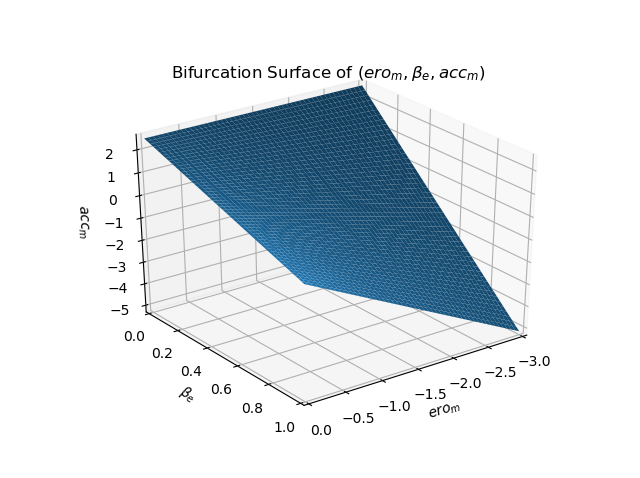
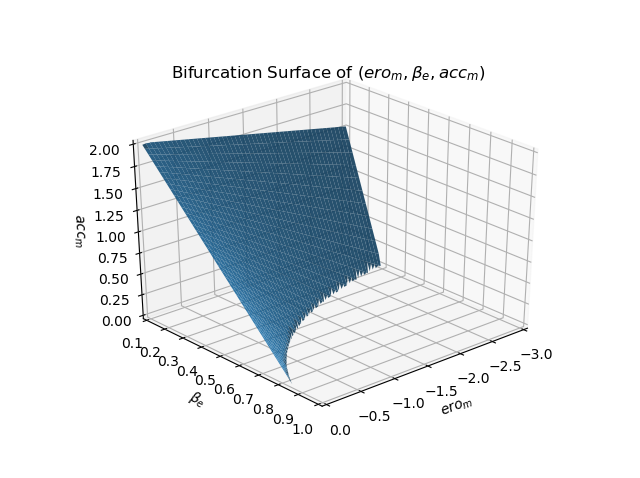
Modified default values

Changed region(s): [[0.0938, 0.1464, 0.8438, 0.9079], [0.8125, 0.7322, 0.875, 0.7615]]

diff --git a/mangrove-peat-salt/determinantSolver.py b/mangrove-peat-salt/determinantSolver.py
@@ -94,26 +94,35 @@ def chSymtoLabel(sym):
 # Tuple list (symbol,default value)
 symDefaults = [(sym,defaults[chSymtoLabel(sym)]) for sym in params]
 symDroughts = [(sym,drought[chSymtoLabel(sym)]) for sym in params]
-#########
+
+
+############
+#----------#
+############
+
 #Bifurcation surface parameters
 # Top correlation parameters to check
 # hydP, decrS, betaA, betaSB, concEvapt, evaptM
 # concS, betaE, betaV
-X = eroM
-Y = betaE
-Z = accM
+X = propPrecip
+Y = propS
+Z = stressS
 
+showDrought = False
+############
+#----------#
+############
 
 xMin = ranges[chSymtoLabel(X)][0]
 xMax = ranges[chSymtoLabel(X)][1]
 
-yMin = ranges[chSymtoLabel(Y)][0]+0.1
+yMin = ranges[chSymtoLabel(Y)][0]
 yMax = ranges[chSymtoLabel(Y)][1]
 
 zAxMin = ranges[chSymtoLabel(Z)][0]
 zAxMax = ranges[chSymtoLabel(Z)][1]
 
-
+truncate = True
 #########
 # Jacobian components
 mortD = betaD/(betaD+betaS)
@@ -237,33 +246,44 @@ ys = np.linspace(yMin,yMax,points)
 xx, yy = np.meshgrid(xs,ys)
 
 zz = saddleFun(xx,yy)
-#zz2 = saddleFun2(xx,yy)
+zz2 = saddleFun2(xx,yy)
 
 
 
 fig2=plt.figure()
 ax2 = fig2.add_subplot(111, projection='3d')
 
-for i in range(len(xx)):
-    for j in range(len(yy)):
-        if (zz[j,i] < zAxMin) or (zz[j,i] > zAxMax):
-            zz[j,i] = np.nan
+if truncate == True:
+    for i in range(len(xx)):
+        for j in range(len(yy)):
+            if (zz[j,i] < zAxMin) or (zz[j,i] > zAxMax): zz[j,i] = np.nan
+            if (zz2[j,i] < zAxMin) or (zz2[j,i] > zAxMax): zz2[j,i] = np.nan
             
-#for i in range(len(xx)):
-#    for j in range(len(yy)):
-#        if (zz2[j,i] < zAxMin) or (zz[j,i] > zAxMax):
-#            zz2[j,i] = np.nan
-            
-ax2.plot_surface(xx, yy, zz, label = 'Default healthy conditions', alpha=0.9, edgecolor='none')
-#ax2.plot_surface(xx, yy, zz2, label='Drought & Low Sea-level Conditions', alpha=0.7, edgecolor='none')
+
+        
+s1 = ax2.plot_surface(xx, yy, zz, label = 'Default', alpha=0.9, edgecolor='none')
+
+s1._facecolors2d=s1._facecolors3d
+s1._edgecolors2d=s1._edgecolors3d
+
+if showDrought == True:
+    s2 = ax2.plot_surface(xx, yy, zz2, label='Drought', alpha=0.7, edgecolor='none')
+    s2._facecolors2d=s2._facecolors3d
+    s2._edgecolors2d=s2._edgecolors3d
+    ax2.legend(loc = 'upper right')
+    
 ax2.set_xlabel(r'$'+latex(X)+'$')
 ax2.set_xlim(xMin,xMax)
 ax2.set_ylabel(r'$'+latex(Y)+'$')
 ax2.set_ylim(yMin,yMax)
 ax2.set_zlabel(r'$'+latex(Z)+'$')
 plt.title(r'Bifurcation Surface of $('+latex(X)+','+latex(Y)+','+latex(Z)+')$')
-ax2.set_zlim(zAxMin,zAxMax)
-#ax2.legend()
+
+if truncate == True:
+    ax2.set_zlim(zAxMin,zAxMax)
+    
+
+
 plt.show()
 
 
@@ -291,20 +311,24 @@ def checkStability(parX,parY,parZ):
 
 
 gradNorm = [-saddleFunc.diff(X),-saddleFunc.diff(Y),1]
-
+gradNorm = np.multiply(gradNorm, 1/10)
 x1 = random.uniform(xMin,xMax)
 y1 = random.uniform(yMin,yMax)
 
 gradNorm[0] = gradNorm[0].subs([(X,x1),(Y,y1)])
 gradNorm[1] = gradNorm[1].subs([(X,x1),(Y,y1)])
 
-revGradNorm = gradNorm
-revGradNorm[0] *= -1
-revGradNorm[1] *= -1
+revGradNorm = np.multiply(gradNorm, -1)
+
+
 p1 = (x1,y1,saddleFun(x1,y1))
 p2 = [a+b for a,b in zip(gradNorm,p1)]
-checkStability((X,p2[0]),(Y,p2[1]),(Z,p2[2]))
+p3 = [a+b for a,b in zip(revGradNorm,p1)]
 
+res1 = checkStability((X,p2[0]),(Y,p2[1]),(Z,p2[2]))
+print(res1 + " above" )
+res2 = checkStability((X,p3[0]),(Y,p2[1]),(Z,p3[2]))
+print(res2 + " below")
 
 #res = checkStability((X,xt+dx),(Y,yt+dy),(Z,zt+dx))
 #res2 = checkStability((X,xt+dx),(Y,yt+dy),(Z,zt-dx))

diff --git a/mangrove-peat-salt/droughtParams.py b/mangrove-peat-salt/droughtParams.py
@@ -7,18 +7,19 @@ Default values and ranges
 for generalised modelling parameters
 scenario: drought (less precipitation) and abnormally low sea levels
 """
-alphaM0 = 1/6.
-alphaP0 = 1/3.
-alphaS0 = 6.
+
+alphaM0 = 1/2
+alphaP0 = 1/4
+alphaS0 = 1
 
 alphas = {'alphaM':alphaM0, 'alphaP':alphaP0, 'alphaS':alphaS0}
 #Mangrove Gain
-betaG0 = 0.2
+betaG0 = 0.4
 betaP0 = 1-betaG0
 
 # Mangrove loss
-betaD0 = 0.01
-betaS0 = 0.9
+betaD0 = 0.0
+betaS0 = 0.8
 betaL0 = 1-betaD0 - betaS0
 
 # Peat gain
@@ -38,23 +39,25 @@ betas = {'betaG':betaG0, 'betaP':betaP0, 'betaD':betaD0, 'betaS':betaS0, 'betaL'
 # ----------------------
 
 # Mangroves
-propM0 = 1 
+propM0 = 0.5 
 propS0 = -3
-growM0 = 1
+growM0 = 0.1
 growS0 = -2
 
-propPrecip = 2
-growPrecip = 1
-evaptM = 0.1
-precipBeta = 0.1
 
-drownHyd0 = 0
-drownM0 = 0
+propPrecip = 1.5
+growPrecip = 1
+evaptM = 0.2
+precipBeta = 0.2
+
+drownHyd0 = 0.5
+drownM0 = 1
 
 stressM0 = 1
-stressS0 = 2
+stressS0 = 0.5
 
-littM0 = 1.5
+littM0 = 1
+
 
 mangs = {'propM':propM0, 'propS':propS0, 'growM':growM0,'growS':growS0, 'drownHyd':drownHyd0, \
          'drownM':drownM0,'stressM':stressM0, 'stressS':stressS0, 'littM':littM0,\
@@ -67,7 +70,7 @@ sedHyd0 = 1
 accM0 = 1.5
 
 retLitt0 = 1
-retHyd0 = -1
+retHyd0 = -0.5
 
 volGrow0 = 1
 volP0 = 1
@@ -75,11 +78,11 @@ volHyd0 = 0.1
 volPrecip = 0.1
 
 
-eroM0 = 1
+eroM0 = -1.5
 
 subsMort0 = 2
-subsHyd0 = 1
-subsP0 = 0.5
+subsHyd0 = 0
+subsP0 = 1
 
 hydP0 = -0.1
 
@@ -103,3 +106,21 @@ salts = {'concEvapt':concEvapt,'concHyd':concHyd, 'concS':concS, 'decrS':decrS,
          'decrPrecip':decrPrecip,'evaptS':evaptS}
 
 defaults = {**alphas, **betas, **mangs, **peats, **salts}
+
+"""
+def stability(eigs):
+    # take in vector of eigenvalues
+    # tell if system stable or not (stable if all eigenvalues are less than zero)
+    reals = np.real(eigs)
+    if max(reals) < 0:
+        result = "Stable"
+    else:
+        result = "Unstable"
+    return result
+
+J = computeJac(defaults)
+w, v = LA.eig(J)
+print(J)
+print(np.real(np.max(w)))
+print(stability(w))
+"""

diff --git a/mangrove-peat-salt/checkStable.py b/mangrove-peat-salt/checkStable.py
@@ -10,7 +10,7 @@ Guesstimations 2
 alphaM0 = 1/1.3
 alphaP0 = 7.
 alphaS0 = 5
-
+Check Stability of default values
 
 """
 import numpy.linalg as LA
@@ -23,21 +23,21 @@ alphaS0 = 1
 
 alphas = {'alphaM':alphaM0, 'alphaP':alphaP0, 'alphaS':alphaS0}
 #Mangrove Gain
-betaG0 = 0.6
+betaG0 = 0.5
 betaP0 = 1-betaG0
 
 # Mangrove loss
-betaD0 = 0.1
-betaS0 = 0.1
+betaD0 = 0.2
+betaS0 = 0.2
 betaL0 = 1-betaD0 - betaS0
 
 # Peat gain
-betaA0 = 0.7
-betaR0 = 0.05
+betaA0 = 0.6
+betaR0 = 0.1
 betaV0 = 1 - betaA0 - betaR0
 
 #Peat loss
-betaE0 = 0.2
+betaE0 = 0.5
 betaSB0 = 1 - betaE0
 
 betas = {'betaG':betaG0, 'betaP':betaP0, 'betaD':betaD0, 'betaS':betaS0, 'betaL':betaL0,
@@ -48,23 +48,23 @@ betas = {'betaG':betaG0, 'betaP':betaP0, 'betaD':betaD0, 'betaS':betaS0, 'betaL'
 # ----------------------
 
 # Mangroves
-propM0 = 1
-propS0 = -1.5
-growM0 = 0.3
+propM0 = 1 
+propS0 = -2
+growM0 = 1
 growS0 = -1
 
-propPrecip = 1.5
+propPrecip = 2
 growPrecip = 1
-evaptM = 0.8
+evaptM = 0.5
 precipBeta = 0.5
 
-drownHyd0 = 0.5
-drownM0 = 1
+drownHyd0 = 1.5
+drownM0 = 1 
 
 stressM0 = 1
-stressS0 = 0.5
+stressS0 = 2
 
-littM0 = 1
+littM0 = 1.5
 
 mangs = {'propM':propM0, 'propS':propS0, 'growM':growM0,'growS':growS0, 'drownHyd':drownHyd0, \
          'drownM':drownM0,'stressM':stressM0, 'stressS':stressS0, 'littM':littM0,\
@@ -83,10 +83,10 @@ retHyd0 = -1
 
 volGrow0 = 1
 volP0 = 1
-volHyd0 = 1.5
+volHyd0 = 1
 volPrecip = 0.5
 
-eroM0 = -1.5
+eroM0 = -1
 
 subsMort0 = 1.5
 subsHyd0 = 1
@@ -100,11 +100,11 @@ peats = {'accSed':accSed0, 'sedHyd':sedHyd0, 'accM':accM0,\
          'subsHyd':subsHyd0, 'subsP':subsP0, 'hydP':hydP0,'volHyd':volHyd0}
 
 # Salinity
-concEvapt = 1.0 
-concS = 1
+concEvapt = 0.7
+concS = 0.8
 concHyd = 1
 
-decrS = 1
+decrS = 0.5
 decrPrecip = 1
 
 evaptS = -1
@@ -128,5 +128,5 @@ def stability(eigs):
 J = computeJac(defaults)
 w, v = LA.eig(J)
 print(J)
-print(np.real(np.max(w)))
+print(np.max(w))
 print(stability(w))

diff --git a/mangrove-peat-salt/modelFullvary2.py b/mangrove-peat-salt/modelFullvary2.py
@@ -18,16 +18,20 @@ from systemTypes import typeNode
 # S = soil salinity (ppm?)
 
 # Linspace range
-n = 10000
+n = 500000
 
 # ---------------
 # Timescales
 # ---------------
 # 1/years turnover rates
 # total guesses at the moment
-alphaM = random.uniform(1/6,1/6,n)
-alphaP = random.uniform(1/3,1/3,n)
-alphaS = random.uniform(3,3,n)
+mangLifespan= 2 # average leaf lifespan
+unitPeatTime = 1 # how long does a chunk of peat topsoil last?
+unitSaltTime = 1 # timescale for unit of salt
+
+alphaM = random.uniform(1/mangLifespan,1/mangLifespan,n)
+alphaP = random.uniform(1/unitPeatTime,1/unitPeatTime,n)
+alphaS = random.uniform(1/unitSaltTime,1/unitSaltTime,n)
 
 paramLabels = {'alphaM','alphaP','alphaS',
                'betaP','betaD','betaL',
@@ -103,7 +107,7 @@ drownM = random.uniform(r0, r1, n)
 stressM = random.uniform(r0, r1, n)
 stressS = random.uniform(0.0, 5.0, n)
 
-littM = random.uniform(1, 2, n)
+littM = random.uniform(r0, r1, n)
 
 # Peat soils
 accSed = random.uniform(r0, r1, n) 
